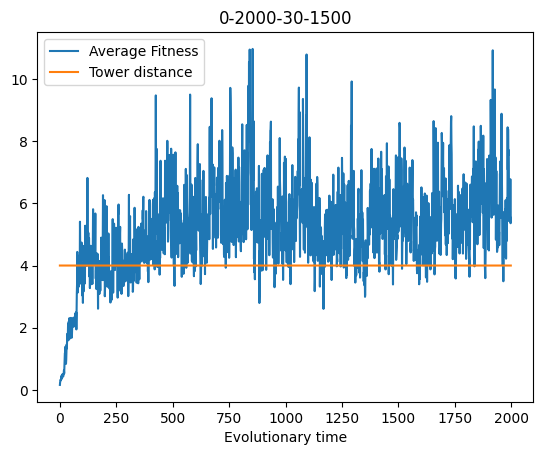
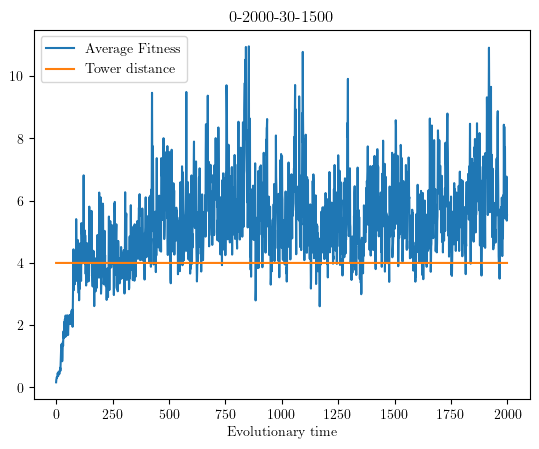
added figures with LaTeX

Changed region(s): [[0.0, 0.0, 1.0, 0.9978]]

diff --git a/Final Project/avgFitGraph.py b/Final Project/avgFitGraph.py
@@ -3,7 +3,7 @@ from matplotlib import rc
 import pickle
 import constants as c
 
-experiment = '300-600-100-1500'
+experiment = '0-2000-30-1500'
 
 f = open(experiment + '/' + experiment + 'fitness.p','rb')
 fitness = pickle.load(f)
